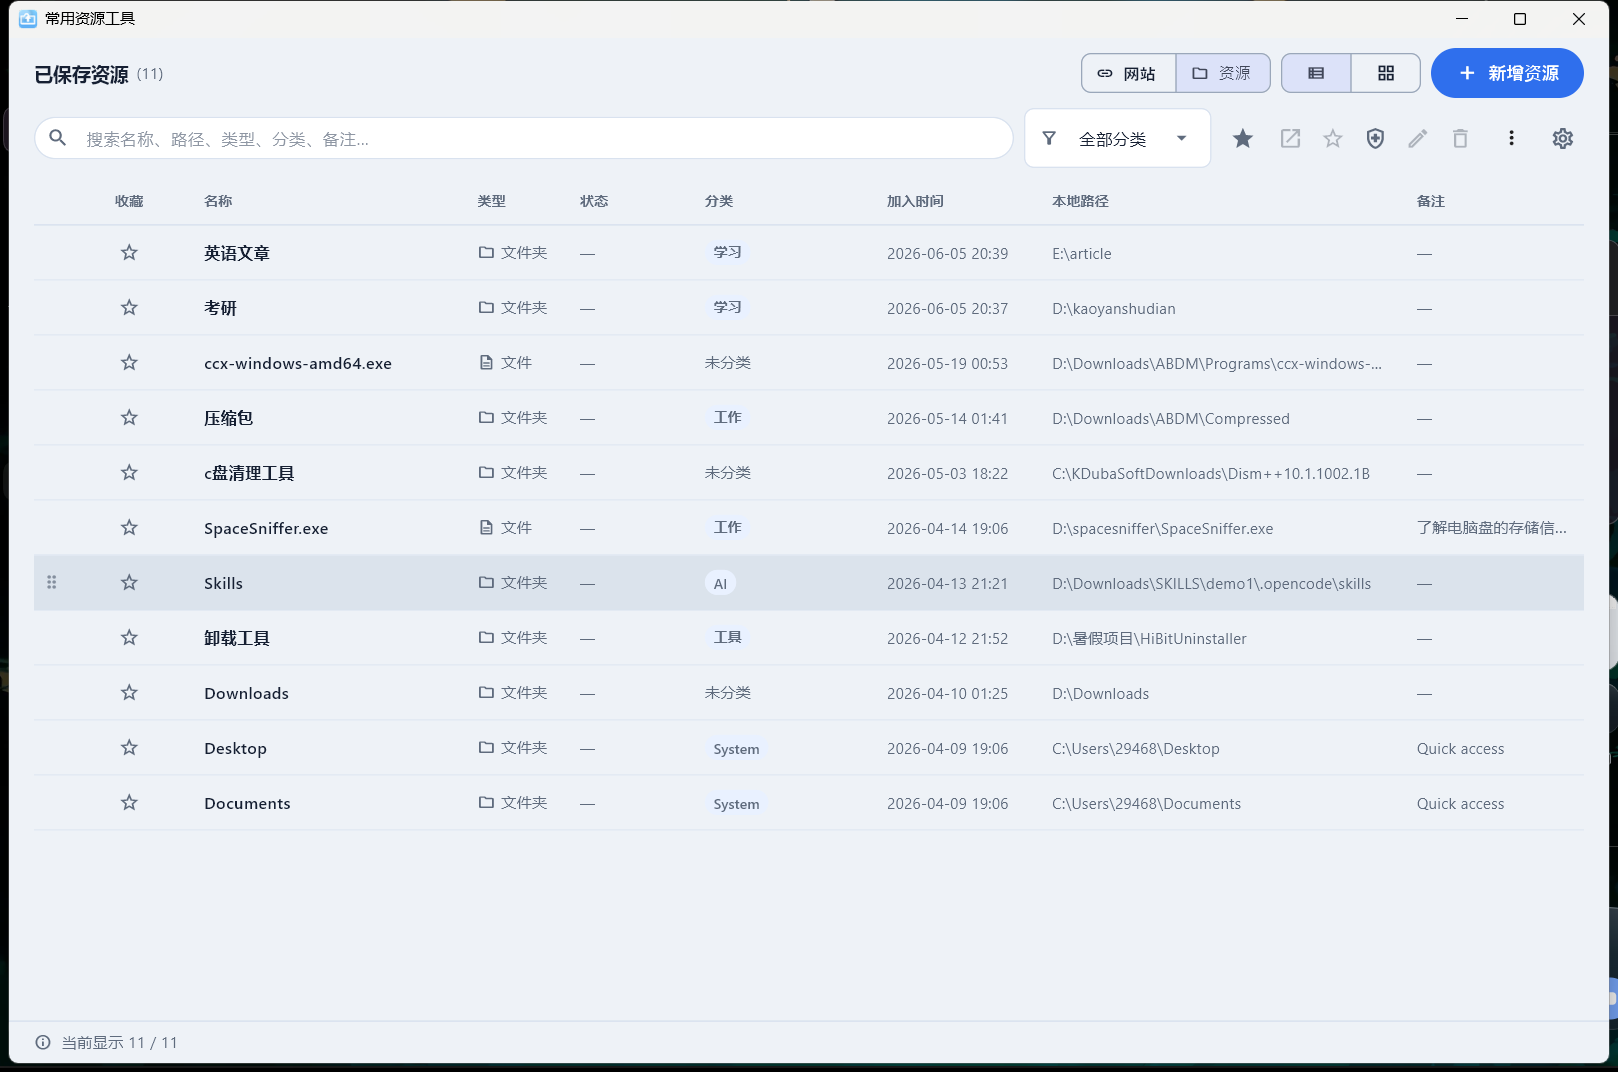
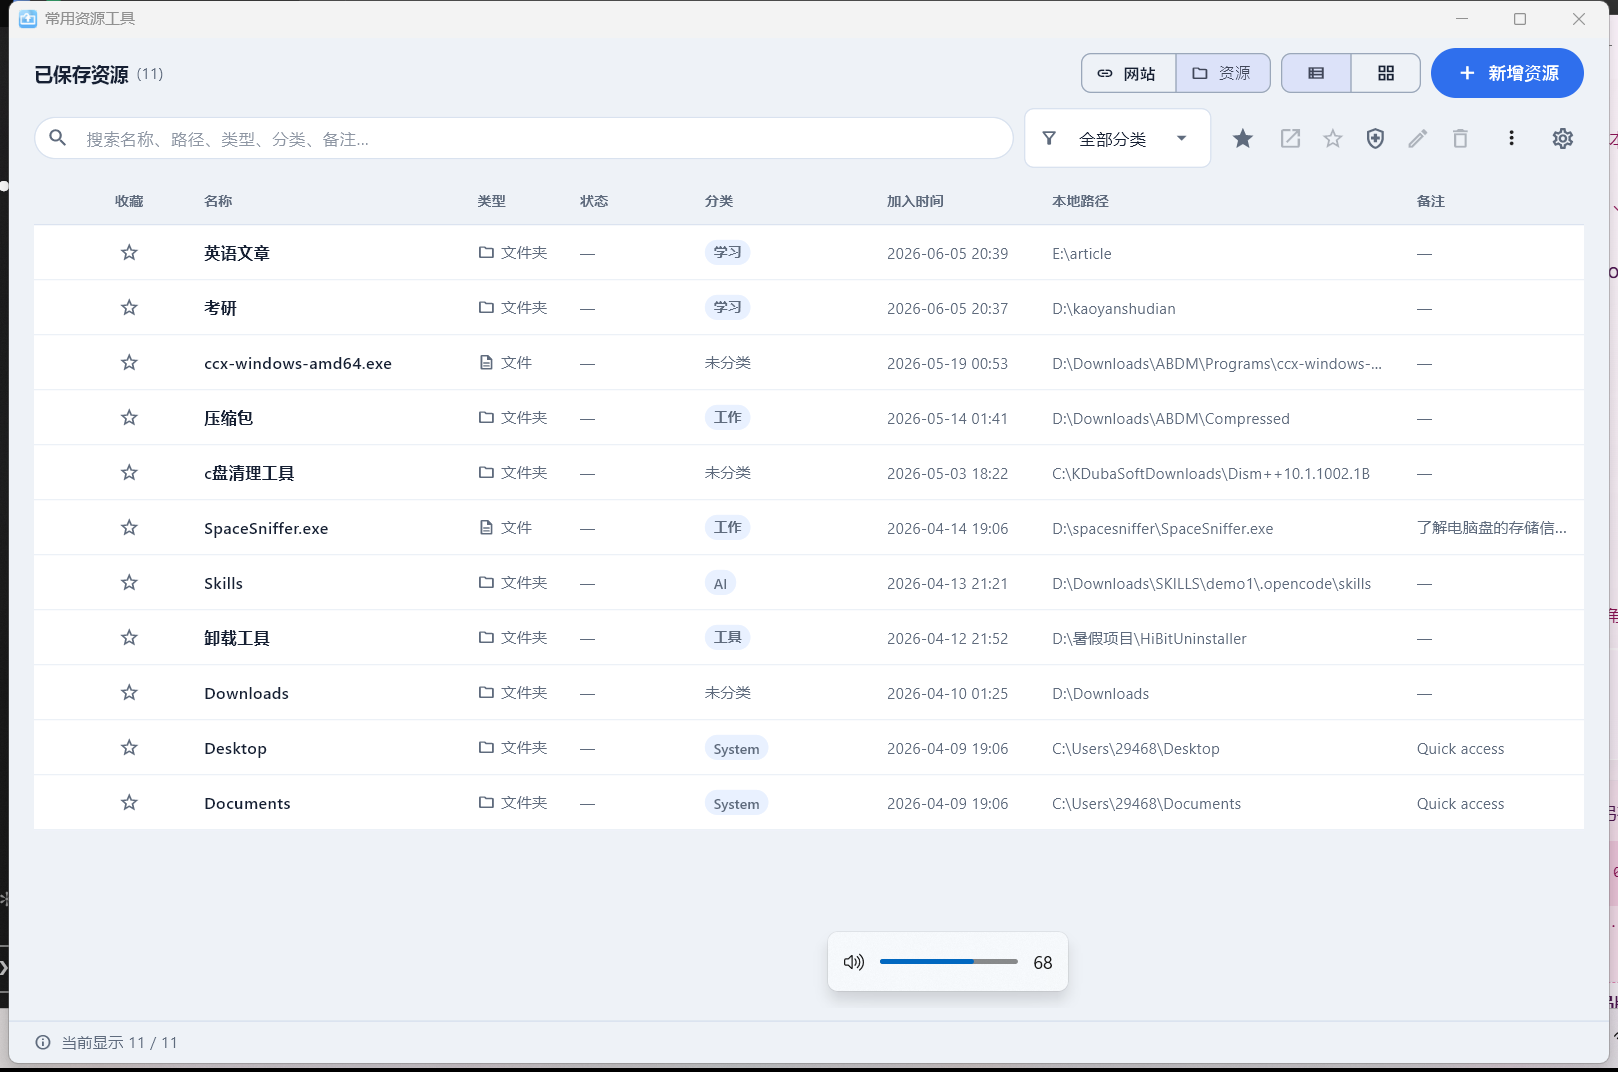
style: highlight list rows with a white surface
Phase 13 removed the enclosing white table card so the page background matched
the grid view, but that also made rows blend into the page. Restore the white
row highlight without bringing the card back: each data row is
surfaceContainerLowest on the surface-coloured page, hover is a 5% primary wash
blended over that white, selection/missing-path tints are unchanged.

Header, empty area and the space below the rows stay on the page surface, so
the white rows read as content while the surrounding layout stays open. Docs:
phase14-row-white.md plus phase13 cross-reference. Tests: Flutter 50/50; shell
QA 9/9.

diff --git a/app/lib/widgets/resource_table.dart b/app/lib/widgets/resource_table.dart
@@ -372,8 +372,13 @@ class _TableRowState extends State<_TableRow> {
         : missing
         ? semantic.missingRowTint
         : _hovered
-        ? scheme.primary.withValues(alpha: 0.05)
-        : Colors.transparent;
+        // Rows are white "cards" on the page surface; hover is a faint primary
+        // wash blended over that white so the Material stays opaque.
+        ? Color.alphaBlend(
+            scheme.primary.withValues(alpha: 0.05),
+            scheme.surfaceContainerLowest,
+          )
+        : scheme.surfaceContainerLowest;
     final Color foreground = selected
         ? scheme.onPrimaryContainer
         : scheme.onSurface;

diff --git a/migration/phase14-row-white.md b/migration/phase14-row-white.md
@@ -1,0 +1,42 @@
+# Phase 14 — 列表行白色高亮
+
+- 日期：2026-10-18
+- 触发：用户接着上一轮说"再将列表视图的文件或者网址像表格视图一样白色高亮显示"
+- 范围：只改列表行的默认底色
+
+---
+
+## 1. 变更
+
+Phase 13 把列表的白色外框去掉后，行和页面共用同一底色，虽然和网格的"页面底色"一致，但行本身不再突出。
+Phase 14 把**行恢复成白色卡片条**（`scheme.surfaceContainerLowest`），页面底色仍是 `scheme.surface`：
+
+| 部分 | 底色 |
+|---|---|
+| 页面 / 表头 / 列表下方空白 | `surface`（浅灰蓝） |
+| 普通数据行 | `surfaceContainerLowest`（白） |
+| 行 hover | 白色上叠加 `primary` 5% 淡染（不透明混合，Material 上仍能显示水波） |
+| 选中行 | `primaryContainer` |
+| 路径缺失行 | `missingRowTint`（红色淡底） |
+
+- 表头保持 Phase 13 的"页面底色 + 底部发丝线"，不再是一整块白面板；
+- 行之间仍是 `outlineVariant` 发丝分隔线，没有加间距/圆角（保持表格的紧凑阅读节奏）；
+- 拖拽排序、选中、右键、双击、空态等行为不变。
+
+效果：文件/网址行在浅灰蓝页面上以白色条高亮，和网格视图的白色卡片形成同一套"内容白色、页面有色"的视觉语言，
+但不会回到 Phase 13 之前"整张表都是白板"的状态。
+
+## 2. 验证
+
+| 项 | 结果 |
+|---|---|
+| `flutter analyze` | 0 issue |
+| Flutter 测试 | **50 / 50**（无行为变化；最小窗口布局测试通过） |
+| 实机 | 三行数据在页面上呈白色高亮（`phase14-row-highlight.png`） |
+| `verify_shell.py` | 9/9 PASS |
+| 发布包 | 47.9 MB，合并进 `release\ResourceHub-Desktop-20261017-1835\`，用户数据未变 |
+
+## 3. 可再调
+
+- 如果觉得白条太"满"，可以把每行左右各留 8px、加 6px 圆角和 2px 垂直间距，做成"卡片条"；
+- 或者只给 hover/选中白，普通行保持页面底色——说一声即可切换。

diff --git a/migration/README.md b/migration/README.md
@@ -19,6 +19,7 @@
 | [`phase11-toolbar-cleanup.md`](phase11-toolbar-cleanup.md) | 工具栏精简：导出/导入移入「更多」菜单 |
 | [`phase12-controls-polish.md`](phase12-controls-polish.md) | 新增资源按钮按 M3 重做、分类筛选收窄 |
 | [`phase13-list-surface.md`](phase13-list-surface.md) | 列表视图去掉白色面板，使用网格视图同款页面底色 |
+| [`phase14-row-white.md`](phase14-row-white.md) | 列表行恢复白色高亮（页面底色不变） |
 | [`adr/ADR-001-tray-hotkey-ownership.md`](adr/ADR-001-tray-hotkey-ownership.md) | 托盘/热键归属、导入导出入口、数据覆盖风险 |
 | [`adr/ADR-002-native-shell-ownership.md`](adr/ADR-002-native-shell-ownership.md) | Windows 壳层归属（runner vs 后端） |
 

diff --git a/migration/phase13-list-surface.md b/migration/phase13-list-surface.md
@@ -46,4 +46,6 @@
 - 列表行现在是页面底色，只有选中/hover/缺失路径才上色；如果你想要"每行是白色卡片"，
   可以给 `_TableRow` 的默认背景改成 `surfaceContainerLowest` 并保留行间距，但那会回到
   "块状列表" 的视觉，和现在的 M3 留白风格不一致。
+  （**后续**：Phase 14 已经按用户要求把默认行改回白色 `surfaceContainerLowest`，页面底色不变，
+  见 [`phase14-row-white.md`](phase14-row-white.md)。）
 - 表格外框和圆角已去掉；如果需要弱边界，可以只在滚动区域加一条发丝分割线。
